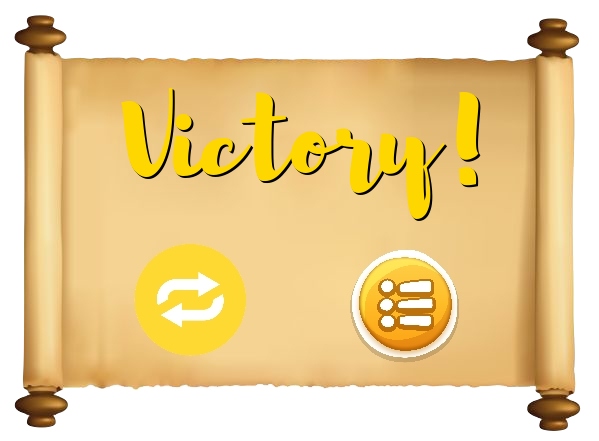
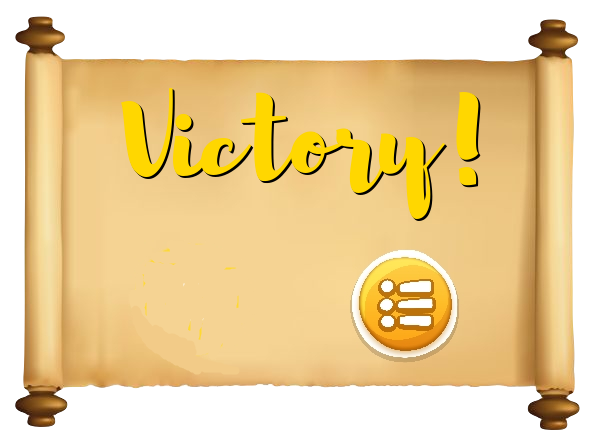
Functioning Bird change selector

diff --git a/preloads.js b/preloads.js
@@ -1,4 +1,4 @@
-let birdImage;
+
 let blockImage;
 let slingshotImage;
 let pigImage;
@@ -19,17 +19,21 @@ let infoImage;
 let infoSheet;
 let winMenu;
 
+let redBird;
+let blueBird;
+let yellowBird;
+let blackBird;
+
 let startSound;
 let gameSound;
 let endSound;
 
 function preload() {
-    birdImage = loadImage('images/bird.png');
+
     blockImage = loadImage('images/boxy.png');
     slingshotImage = loadImage('images/slinger.png')
     pigImage = loadImage('images/pig.png');
     stoneImage = loadImage('images/stone.png');
-    mousePic = loadImage('images/mouse.png');
     level1bg = loadImage('images/bg.jpg');
     level2bg = loadImage('images/levelA.png')
     level3bg = loadImage('images/levelB.png');
@@ -48,4 +52,9 @@ function preload() {
     startSound = loadSound('sounds/loadscreensound.wav');
     gameSound = loadSound('sounds/gamesound.mp3');
     endSound = loadSound('sounds/endgamesound.mp3');
+
+    redBird = loadImage('images/birdred.png');
+    yellowBird = loadImage('images/birdyellow.png');
+    blueBird = loadImage('images/birdblue.png');
+    blackBird = loadImage('images/birdblack.png');
   }

diff --git a/mouseFunctions.js b/mouseFunctions.js
@@ -23,15 +23,31 @@ function mousePressed(){
       startSound.stop();
       whichScreen = "level3"
     }
+    else if (mouseX >= 1287 && mouseX <= 1353 && mouseY >= 571 && mouseY <= 630){
+      if (birdImage === redBird){
+        birdImage = blueBird;
+      }
+      else if (birdImage === blueBird){
+        birdImage = yellowBird;
+      }
+      else if (birdImage === yellowBird){
+        birdImage = blackBird;
+      }
+      else if (birdImage === blackBird){
+        birdImage = redBird;
+      }
+    }
   }
 
+  // Victory Screen
   if (whichScreen === "level1" || whichScreen === "level2" || whichScreen === "level3"){
     if (!pigAlive){
       if (mouseX >= 752 && mouseX <= 852 && mouseY >= 352 && mouseY <= 454){
         whichScreen = "menu";
         pigAlive = true;
+        menuPlay = true;
       }
+    }
   }
-  }
-  console.log(pigAlive);
+  console.log(mouseX, mouseY);
 }

diff --git a/menuScreen.js b/menuScreen.js
@@ -10,6 +10,7 @@ let menuPlay = true;
 
 function menuScreen() {
   if (menuPlay === true){
+    console.log(birdImage);
     gameSound.stop();
     startSound.loop();
     menuPlay = false;
@@ -17,6 +18,7 @@ function menuScreen() {
   }
     background(menuBackground);
     image(infoImage, 1260, 150, 90, 90);
+    image(birdImage, 1270, 550, 90, 90);
     
     image(level1icon, 500, screenHeight/2, 150, 150);
     image(level2icon, screenWidth/2, screenHeight/2, 150, 150);

diff --git a/sketch.js b/sketch.js
@@ -6,6 +6,7 @@ let world, engine;
 let mConstraint;
 let slingshot;
 let objectArray = [];
+let birdImage;
 
 let whichScreen = "menu";
 let pigAlive = true;
@@ -16,10 +17,10 @@ let screenHeight = 750;
 function setup() {
   const theCanvas = createCanvas(screenWidth, screenHeight);
 
-  // startSound.loop();
-
   engine = Engine.create();
   world = engine.world;
+
+  birdImage = redBird;
 }
 
 function draw() {

diff --git a/victoryandpause.js b/victoryandpause.js
@@ -1,0 +1,12 @@
+function pigCheck() {
+    if (objectArray[0].body.positionImpulse.y !== 0) {
+        World.remove(world, objectArray[0].body);
+        World.clear(engine.world);
+        pigAlive = false;
+        console.log(pigAlive);
+        if (!pigAlive) {
+          winnerScreen = image(winMenu, 400, 100);
+        }
+        objectArray = [];
+    }
+}

diff --git a/index.html b/index.html
@@ -25,7 +25,7 @@
     <script src="preloads.js"></script>
     <script src="menuScreen.js"></script>
     <script src="mouseFunctions.js"></script>
-    <script src="pigCheck.js"></script>
+    <script src="victoryandpause.js"></script>
 
 
 
